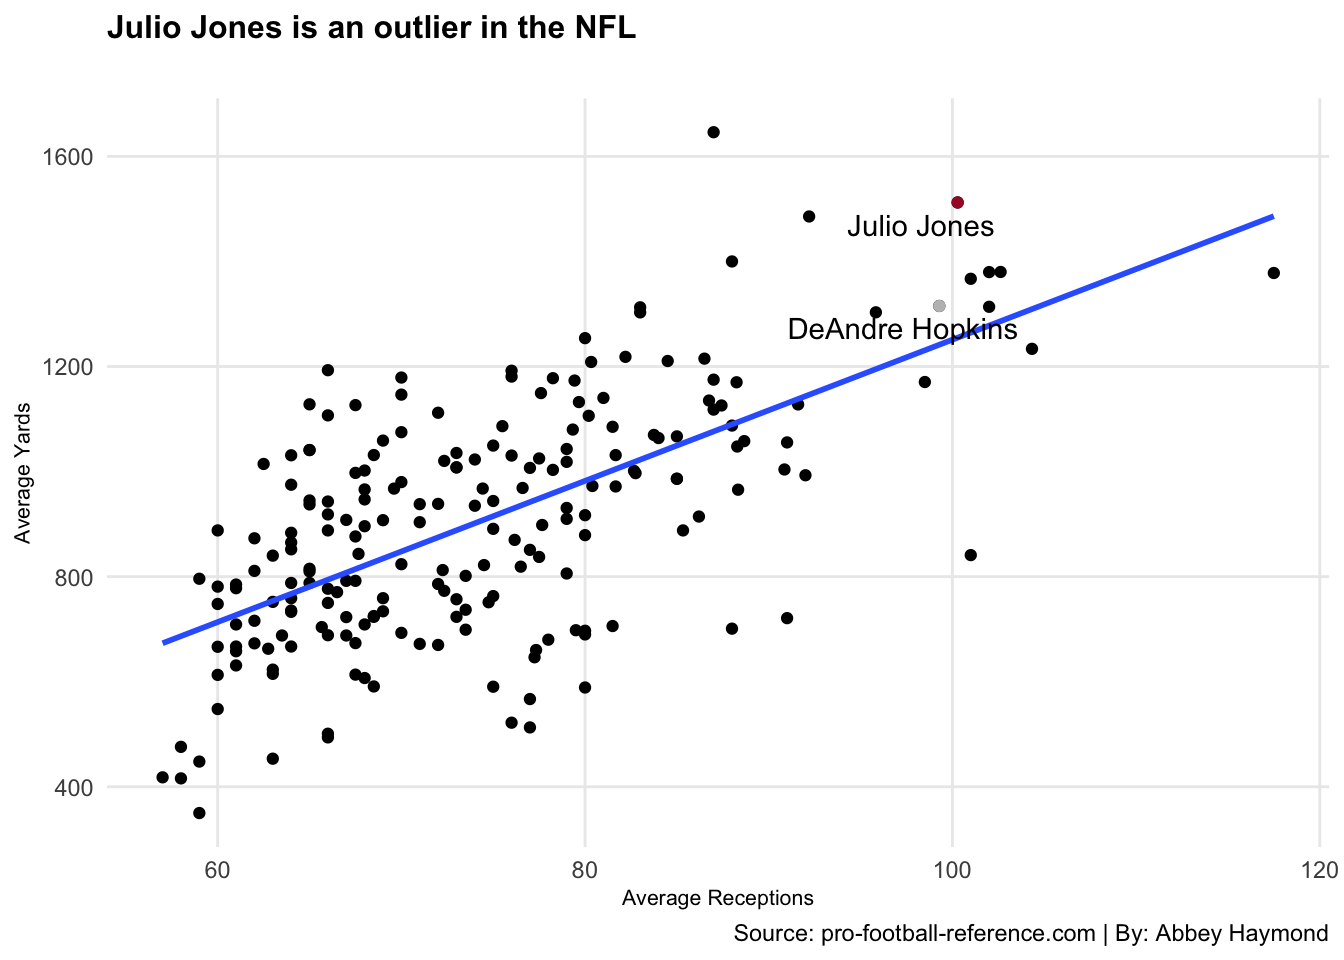
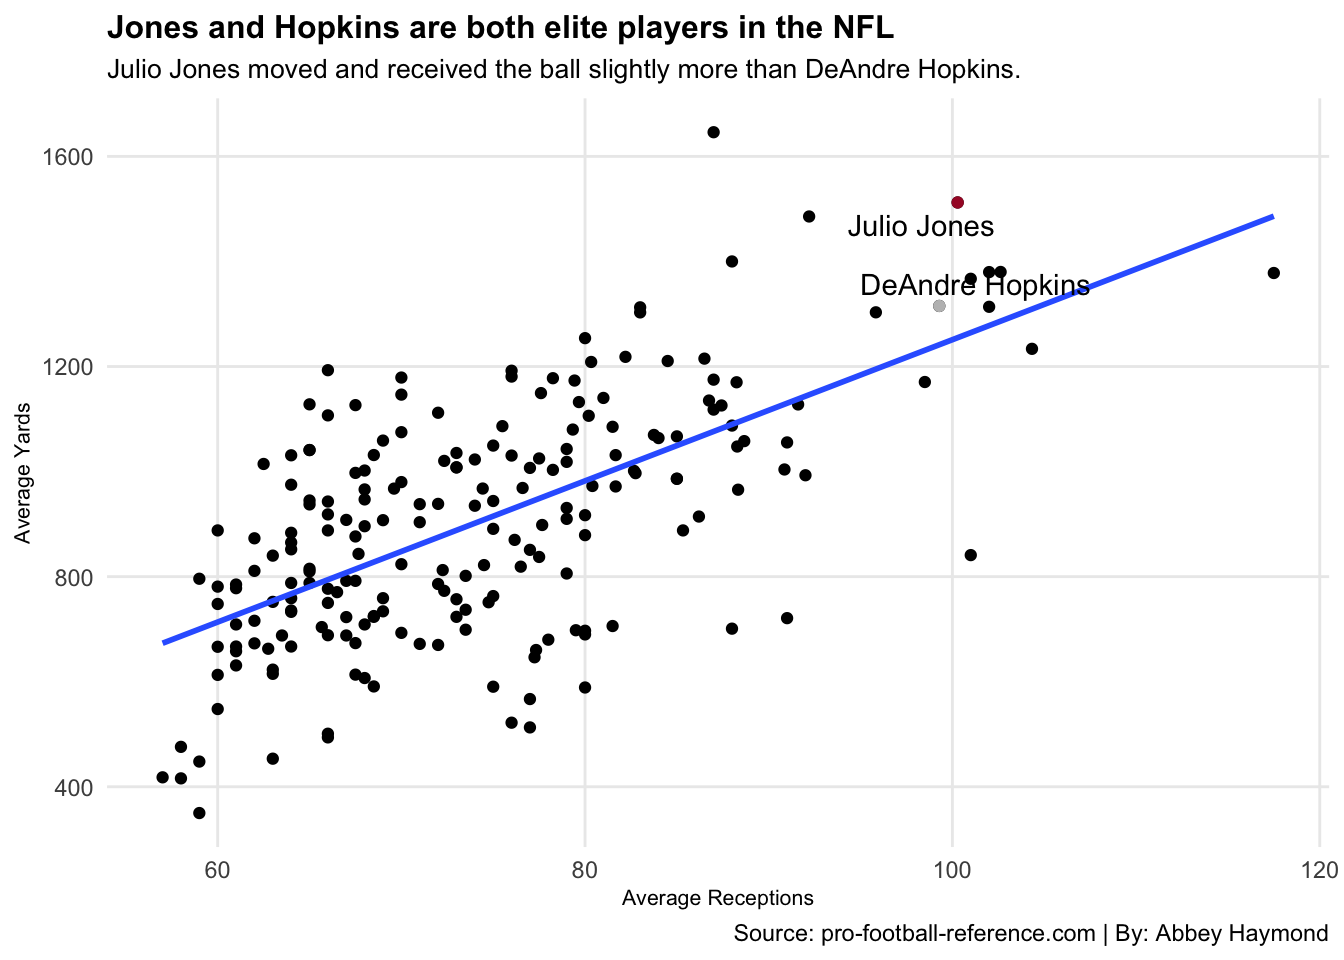
update

Changed region(s): [[0.0625, 0.0, 0.75, 0.0938], [0.5938, 0.2812, 0.8125, 0.375], [0.6875, 0.2188, 0.7188, 0.25]]

diff --git a/2021/04/14/is-deandre-hopkins-better-than-julio-jones/index.html b/2021/04/14/is-deandre-hopkins-better-than-julio-jones/index.html
@@ -87,7 +87,7 @@
 ## x dplyr::lag()    masks stats::lag()</code></pre>
 <pre class="r"><code>library(ggrepel)
 library(waffle)</code></pre>
-<p>In May of 2020, Arizona Cardinals receiver, DeAndre Hopkins, joined the Jalen &amp; Jacoby Show. He claimed that he is the best wide receiver in the NFL and compared himself to Julio Jones. Is he really better than Jet Jones?</p>
+<p>In May of 2020, Arizona Cardinals receiver, DeAndre Hopkins, joined the Jalen &amp; Jacoby Show. He claimed that he is the best wide receiver in the NFL and compared himself to Julio Jones. Is he really better than “Jet” Jones?</p>
 <p>I took a look at their numbers throughout their careers.</p>
 <pre class="r"><code>NFLreceiving &lt;- read_csv(&quot;~/Desktop/Sports Data/Project/nflreceiving.csv&quot;) %&gt;% mutate(CtchPct = as.numeric(gsub(&quot;%&quot;, &quot;&quot;, CtchPct)))</code></pre>
 <pre><code>## 
@@ -126,8 +126,8 @@ DHrecAvg &lt;- DHreceiving %&gt;% summarise(
   labs(
     x=&quot;Average Receptions&quot;, 
     y=&quot;Average Yards&quot;, 
-    title=&quot;Julio Jones is an outlier in the NFL&quot;, 
-    subtitle=&quot;&quot;, 
+    title=&quot;Jones and Hopkins are both elite players in the NFL&quot;, 
+    subtitle=&quot;Julio Jones moved and received the ball slightly more than DeAndre Hopkins. &quot;, 
     caption=&quot;Source: pro-football-reference.com | By: Abbey Haymond&quot;) +
   theme_minimal() + 
   theme(
@@ -137,7 +137,7 @@ DHrecAvg &lt;- DHreceiving %&gt;% summarise(
     panel.grid.minor = element_blank()) </code></pre>
 <pre><code>## `geom_smooth()` using formula &#39;y ~ x&#39;</code></pre>
 <p><img src="/2021/04/14/is-deandre-hopkins-better-than-julio-jones/index_files/figure-html/unnamed-chunk-4-1.png" width="672" />
-This chart shows that both Jones and Hopkins are close to the top right portion of the model, which tells me that they are higher in comparison to other top players in the league. They both have a higher number of average receptions and yards.</p>
+This chart shows that both Jones and Hopkins are close to the top right portion of the model, which tells me that they are higher in comparison to other top players in the league.</p>
 <p>Julio Jones is slightly higher than DeAndre Hopkins, but they are comparable when it comes to how much they caught and moved the ball. We can tell that they are both exceptional wide receivers.</p>
 <p>Another way to identify a good receiver is by their number of targets. The targeted receiver tends to be the best receiver on the field for that play; the better a player does his job, the more likely he is going to be the target.</p>
 <p>I am looking at the same data and select the seasons that both Jones and Hopkins played consistently. I focused on the number of targets that they had those season to the rest of the league.</p>
@@ -154,8 +154,8 @@ DHreceivingclean &lt;- DHreceiving %&gt;% select(Season, Tgt) %&gt;% subset(Seas
   labs(
     x=&quot;Season&quot;, 
     y=&quot;Average Target&quot;, 
-    title=&quot;Julio Jones is an outlier in the NFL&quot;, 
-    subtitle=&quot;&quot;, 
+    title=&quot;Both players are good at what they do&quot;, 
+    subtitle=&quot;Jones and Hopkins exceeded in comparison to the league as targets.&quot;, 
     caption=&quot;Source: pro-football-reference.com | By: Abbey Haymond&quot;) +
   theme_minimal() + 
   theme(
@@ -166,8 +166,7 @@ DHreceivingclean &lt;- DHreceiving %&gt;% select(Season, Tgt) %&gt;% subset(Seas
 <pre><code>## Scale for &#39;x&#39; is already present. Adding another scale for &#39;x&#39;, which will
 ## replace the existing scale.</code></pre>
 <p><img src="/2021/04/14/is-deandre-hopkins-better-than-julio-jones/index_files/figure-html/unnamed-chunk-6-1.png" width="672" />
-Again, the data for both players are fairly similar. Throughout their careers, their average number of targets hike above and below the other.</p>
-<p>They exceeded in comparison to the league in the average number of targets during this period to suggest that Jones and Hopkins are both good at what they do.</p>
+Again, the data for both players are fairly similar. Throughout their careers, their average number of targets hike above and below the other. They exceeded in comparison to the league in the average number of targets during this period to suggest that Jones and Hopkins are both good at what they do.</p>
 <p>Both receivers’ trends are comparable, so I decided to look at one last area. Jones and Hopkins can move the ball and make their routes, but what is the result of those plays?</p>
 <p>This chart shows that both Jones and Hopkins are close to the top right portion of the model, which tells me that they are higher when compared to other top players in the league. They both have a higher number of average receptions and yards.</p>
 <p>I am working with the same data, but I focused on their average number of touchdowns and first downs throughout both players’ careers.</p>
@@ -192,7 +191,7 @@ nfl &lt;- c(&quot;TD&quot;=6.23, &quot;1D&quot;=48.29)</code></pre>
         xlab=&quot;1 square = 1 down&quot;, 
         colors = c(&quot;black&quot;, &quot;#A71930&quot;, &quot;white&quot;)) +
   theme(
-    plot.title = element_text(size = 12, face = &quot;bold&quot;),
+    plot.title = element_text(size = 12),
     axis.title = element_text(size = 8), 
     plot.subtitle = element_text(size=10),
     panel.grid.minor = element_blank()),
@@ -202,7 +201,7 @@ nfl &lt;- c(&quot;TD&quot;=6.23, &quot;1D&quot;=48.29)</code></pre>
         xlab=&quot;1 square = 1 down&quot;, 
         colors = c(&quot;black&quot;, &quot;#A71930&quot;, &quot;white&quot;)) +
   theme(
-    plot.title = element_text(size = 12, face = &quot;bold&quot;),
+    plot.title = element_text(size = 12),
     axis.title = element_text(size = 8), 
     plot.subtitle = element_text(size=10),
     panel.grid.minor = element_blank()),
@@ -212,7 +211,7 @@ nfl &lt;- c(&quot;TD&quot;=6.23, &quot;1D&quot;=48.29)</code></pre>
         xlab=&quot;1 square = 1 down&quot;, 
         colors = c(&quot;black&quot;, &quot;#A71930&quot;, &quot;white&quot;)) +
   theme(
-    plot.title = element_text(size = 12, face = &quot;bold&quot;),
+    plot.title = element_text(size = 12),
     axis.title = element_text(size = 8), 
     plot.subtitle = element_text(size=10),
     panel.grid.minor = element_blank()) + 
